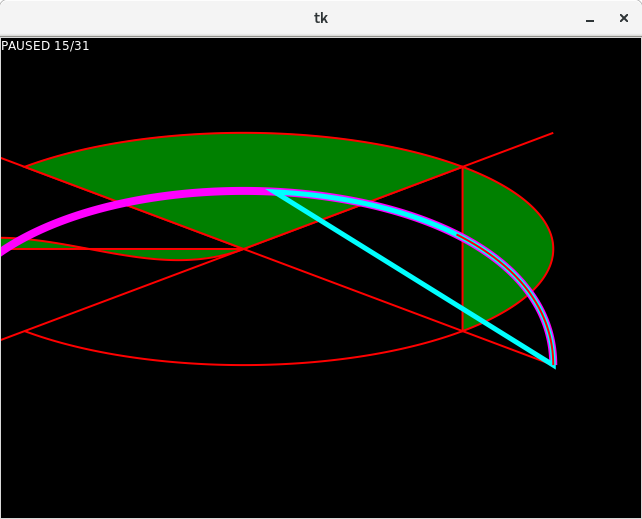
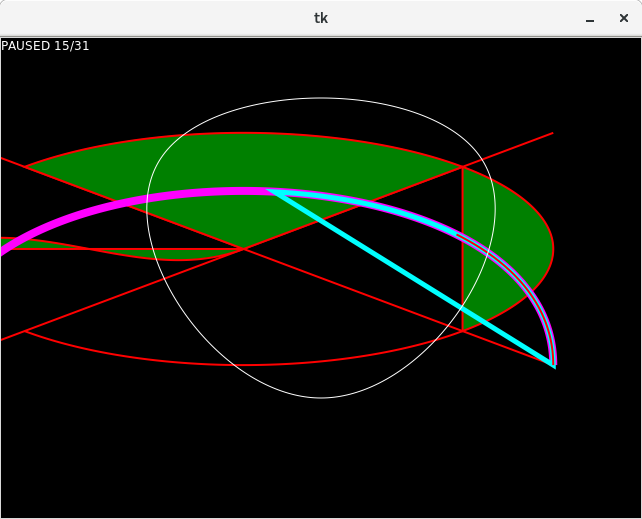
Added Polyline and refactored some existing shapes

diff --git a/shapes.py b/shapes.py
@@ -40,71 +40,6 @@ class TestShapeChildren(Shape):
 			Symbol("M {} {} C {} {}, {} {}, {} {} Z".format(w/2,h/2,2*w/3,h/3,5*w/6,2*h/3,w,h/2), **ckwargs)
 		)
 
-class Symbol(Shape):
-	"""
-	SVG path object
-	"""
-	def __init__(self, path, **kwargs):
-		assert isinstance(path, str), "Path must be a string"
-		symbol = aggdraw.Symbol(path)
-		handle_config(self, kwargs, locals())
-		Shape.__init__(self, **kwargs)
-	
-	def draw_self(self, canvas, pen, brush):
-		canvas.drawing.symbol((0, 0), self.symbol, pen, brush)
-	
-	def update_symbol(self):
-		"""
-		Update the internal aggdraw symbol object
-		"""
-		self.symbol = aggdraw.Symbol(self.path)
-
-class BezierCurve(Symbol):
-	"""
-	A cubic bezier curve
-	"""
-	CONFIG = {
-		"slice_pos": 1.,
-		"close_path": False
-	}
-	def __init__(self, p0, p1, p2, p3, **kwargs):
-		for p in [p0, p1, p2, p3]:
-			assert isinstance(p, tuple), "Must provide points as tuples"
-			assert len(p) == 2, "Must provide pairs of points"
-			for v in p:
-				assert is_number(v), "Must provide coordinates as numbers"
-		handle_config(self, kwargs, dict(anchors = [p0, p1, p2, p3]))
-		self.slice(self.slice_pos)
-		Symbol.__init__(self, self.path_string(), **kwargs)
-	
-	def draw_self(self, canvas, pen, brush):
-		if self.slice_pos != 0.:
-			Symbol.draw_self(self, canvas, pen, brush)
-	
-	def path_string(self):
-		"""
-		Return the curve as an SVG path string
-		"""
-		coords = reduce(lambda p,c: p + [int(c[0]), int(c[1])], self.drawn, [])
-		path = "M {} {} C {} {}, {} {}, {} {}".format(*coords)
-		if self.close_path:
-			path += " Z"
-		return path
-	
-	def update_drawing(self):
-		"""
-		Update the internal symbol
-		"""
-		self.symbol = aggdraw.Symbol(self.path_string())
-	
-	def slice(self, t):
-		"""
-		Set the drawn curve to be a slice of the original
-		"""
-		self.slice_pos = t
-		self.drawn = slice_curve(self.slice_pos, *self.anchors)
-		self.update_drawing()
-
 class BoundedShape(Shape):
 	"""
 	A shape with bounds
@@ -157,3 +92,125 @@ class PieSlice(SliceShape):
 	"""
 	def draw_self(self, canvas, pen, brush):
 		canvas.drawing.pieslice(self.bounds, self.start_angle, self.end_angle, pen, brush)
+
+class Symbol(Shape):
+	"""
+	SVG path object
+	"""
+	def __init__(self, path, **kwargs):
+		assert isinstance(path, str), "Path must be a string"
+		handle_config(self, kwargs, locals())
+		self.update_symbol()
+		Shape.__init__(self, **kwargs)
+	
+	def draw_self(self, canvas, pen, brush):
+		canvas.drawing.symbol((0, 0), self.symbol, pen, brush)
+	
+	def path_string(self):
+		"""
+		Return the curve as an SVG path string
+		"""
+		return self.path
+	
+	def update_symbol(self):
+		"""
+		Update the internal aggdraw symbol object
+		"""
+		self.symbol = aggdraw.Symbol(self.path_string())
+
+class BezierCurve(Symbol):
+	"""
+	A cubic bezier curve
+	"""
+	CONFIG = {
+		"slice_pos": 1.,
+		"close_path": False
+	}
+	def __init__(self, p0, p1, p2, p3, **kwargs):
+		for p in [p0, p1, p2, p3]:
+			assert isinstance(p, tuple), "Must provide points as tuples"
+			assert len(p) == 2, "Must provide pairs of points"
+			for v in p:
+				assert is_number(v), "Must provide coordinates as numbers"
+		handle_config(self, kwargs, dict(anchors = [p0, p1, p2, p3]))
+		Symbol.__init__(self, "", **kwargs)
+	
+	def draw_self(self, canvas, pen, brush):
+		if self.slice_pos != 0.:
+			Symbol.draw_self(self, canvas, pen, brush)
+	
+	def path_string(self):
+		coords = reduce(lambda p,c: p + [int(c[0]), int(c[1])], self.drawn, [])
+		path = "M {} {} C {} {}, {} {}, {} {}".format(*coords)
+		if self.close_path:
+			path += " Z"
+		return path
+	
+	def update_symbol(self):
+		self.drawn = slice_curve(self.slice_pos, *self.anchors)
+		Symbol.update_symbol(self)
+	
+	def slice(self, t):
+		"""
+		Set the drawn curve to be a slice of the original
+		"""
+		self.slice_pos = t
+		self.update_symbol()
+
+class Polyline(Symbol):
+	"""
+	Multiple line segments
+	"""
+	CONFIG = {
+		"smooth": False,
+		"closed": False
+	}
+	def __init__(self, *points, **kwargs):
+		for p in points:
+			assert_point(p)
+		points = np.array([[float(p[0]), float(p[1])] for p in points])
+		handle_config(self, kwargs, locals())
+		Symbol.__init__(self, "", **kwargs)
+	
+	def draw_self(self, canvas, pen, brush):
+		canvas.drawing.symbol((0, 0), self.symbol, pen, brush)
+	
+	def path_string(self):
+		"""
+		SVG path string from points
+		"""
+		n = len(self.points)
+		path = "M {} {}".format(self.points[0, 0], self.points[0, 1])
+		for i in range(len(self.handles)):
+			triplet = np.array([self.handles[i, 0, :], self.handles[i, 1, :], self.points[(i + 1) % n, :]])
+			path += "C {} {}, {} {}, {} {}".format(*triplet.flatten())
+		if self.closed:
+			path += " Z"
+		return path
+	
+	def update_symbol(self):
+		self.create_handles()
+		Symbol.update_symbol(self)
+	
+	def create_handles(self):
+		"""
+		Create the handles
+		"""
+		n = len(self.points)
+		m = n if self.closed else n - 1
+		self.handles = np.zeros((m, 2, 2))
+		points = np.append(self.points, self.points[0 : 2, :], axis = 0)
+		# Calculate handles for middle points
+		for i in range(1, m):
+			handle_func = get_smooth_handles if self.smooth else get_flat_handles
+			handles = handle_func(*points[i - 1 : i + 2])
+			self.handles[i - 1, 1, :] = handles[0, :]
+			self.handles[i, 0, :] = handles[1, :]
+		# Calculate handles for start/end
+		if self.closed and self.smooth:
+			handles = get_smooth_handles(points[m - 1], points[0], points[1])
+			self.handles[m - 1, 1, :] = handles[0, :]
+			self.handles[0, 0, :] = handles[1, :]
+		else:
+			self.handles[m - 1, 1, :] = get_third(points[m], points[m - 1])
+			self.handles[0, 0, :] = get_third(points[0], points[1])

diff --git a/helpers.py b/helpers.py
@@ -155,7 +155,7 @@ def assert_point(p):
 	Assertions for a valid point
 	"""
 	assert isinstance(p, tuple), "Must provide points as tuples"
-	assert len(p) == 2, "Must provide pairs of points"
+	assert len(p) == 2, "Must provide pairs of coordinates"
 	for v in p:
 		assert is_number(v), "Must provide coordinates as numbers"
 
@@ -176,3 +176,28 @@ def mod_positive(a, b):
 	Returns a positive mod
 	"""
 	return ((a % b) + b) % b
+
+def get_third_vector(p0, p1):
+	"""
+	Self explanatory
+	"""
+	return np.divide(np.subtract(p1, p0), 3.)
+
+def get_third(p0, p1):
+	"""
+	Self explanatory
+	"""
+	return np.add(p0, get_third_vector(p0, p1))
+
+def get_flat_handles(p0, p1, p2):
+	"""
+	Get the control points around p1
+	"""
+	return np.array([get_third(p1, p0), get_third(p1, p2)])
+
+def get_smooth_handles(p0, p1, p2):
+	"""
+	Get the control points around p1
+	"""
+	third = get_third_vector(p0, p2)
+	return np.array([np.subtract(p1, third), np.add(p1, third)])

diff --git a/test.py b/test.py
@@ -18,6 +18,7 @@ def main():
 	b2 = BezierCurve((0, 0), (0, h), (w, h), (w, 0), stroke_color = "aqua", stroke_width = 5., slice_pos = .5, close_path = True)
 	b3 = BezierCurve((0, 0), (0, h), (w, h), (w, 0), stroke_color = (1., 0., 0.), stroke_width = 2., slice_pos = .25)
 	s.add(b1, b2, b3)
+	p = Polyline((w / 4, h / 4), (w / 2, 3 * h / 4), (3 * w / 4, h / 4), smooth = True, closed = True, stroke_color = "white")
 	for shape in s.flatten():
 		print shape
 	parts = DEF_FPS
@@ -26,7 +27,7 @@ def main():
 		f2 = 1. * (i + 1) / (parts + 1)
 		b2.slice(1. * f)
 		s.update_transform(Transform.RESIZE_ABOUT(w / 2, h / 2, 2. * f2, 1. * f2))
-		c.capture_frame(s)
+		c.capture_frame(s, p)
 	c.show()
 
 if __name__ == "__main__":
